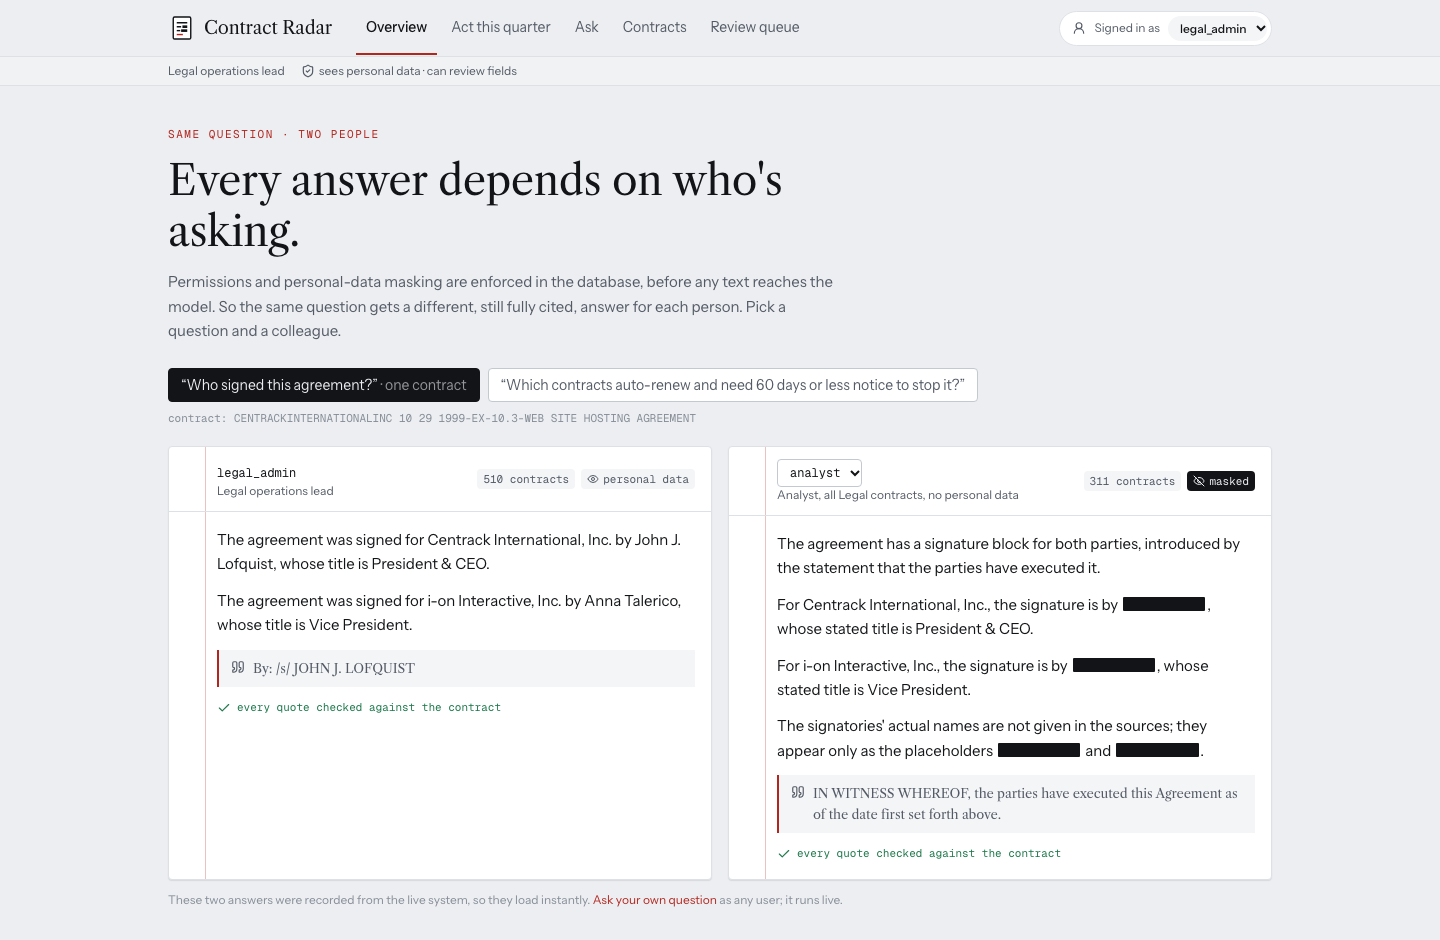
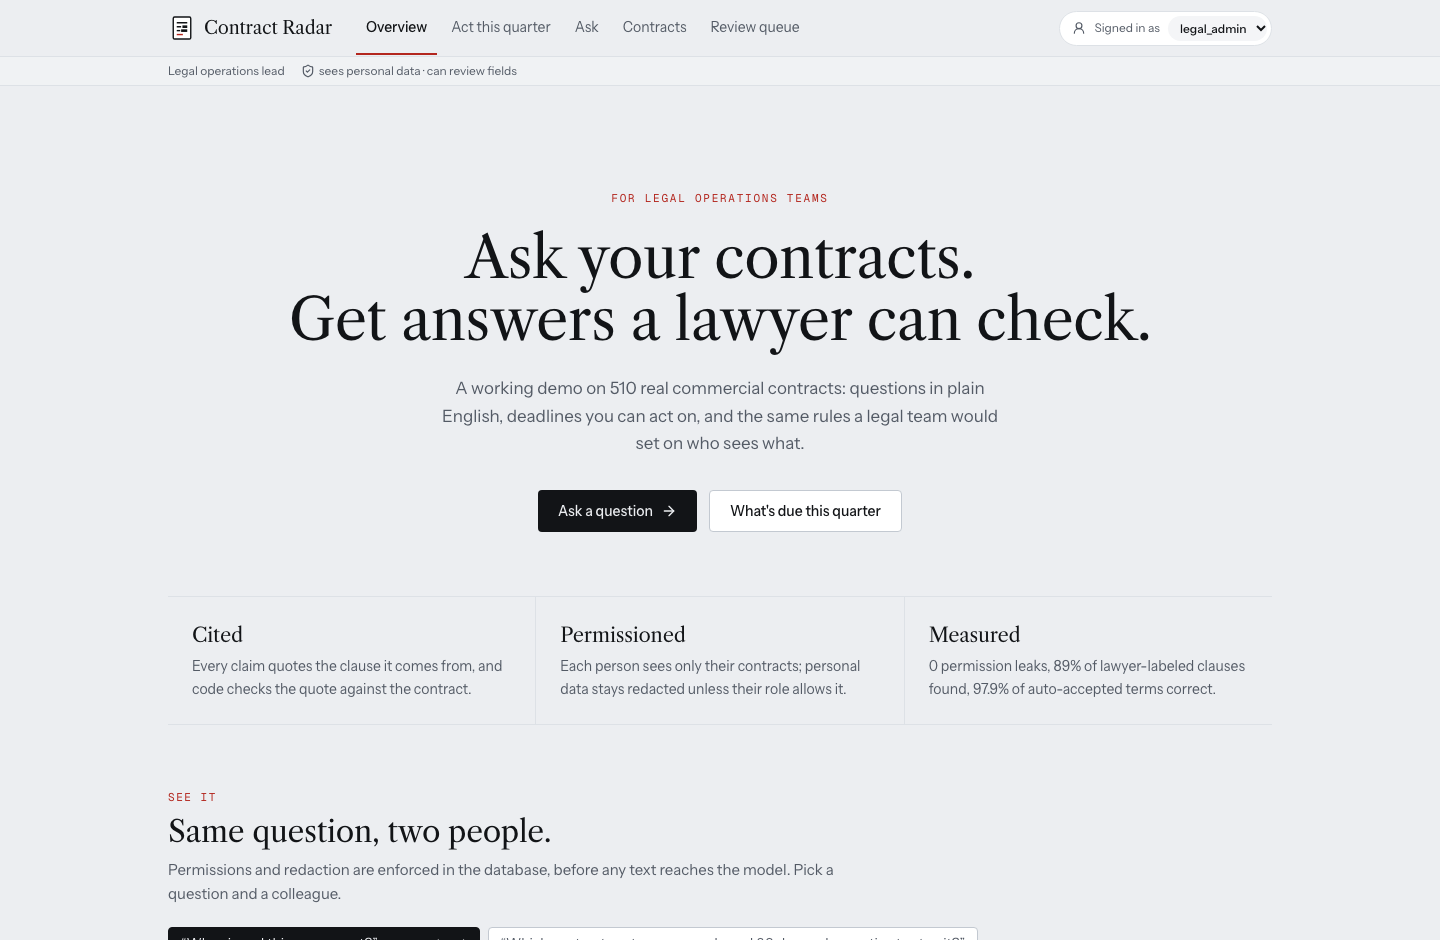
README: landing screenshot

diff --git a/README.md b/README.md
@@ -14,7 +14,7 @@ example question or ask your own ([open as the analyst](https://ca-cradar-eu3h4-
 > Data: the 510 public commercial contracts of [CUAD](https://www.atticusprojectai.org/cuad) (CC BY 4.0), filed with
 > the SEC. The client, users and permissions are a demo scenario: see [CLIENT_BRIEF.md](CLIENT_BRIEF.md).
 
-![Overview: the same question answered for two people side by side; the analyst's answer shows names as redaction bars](docs/img/overview-compare.png)
+![Landing: what it is in one line, then the same question answered for two people side by side](docs/img/overview-compare.png)
 
 ![Act this quarter: non-renewal notice deadlines computed from the extracted terms, each with its clause and review status](docs/img/act-this-quarter.png)
 
